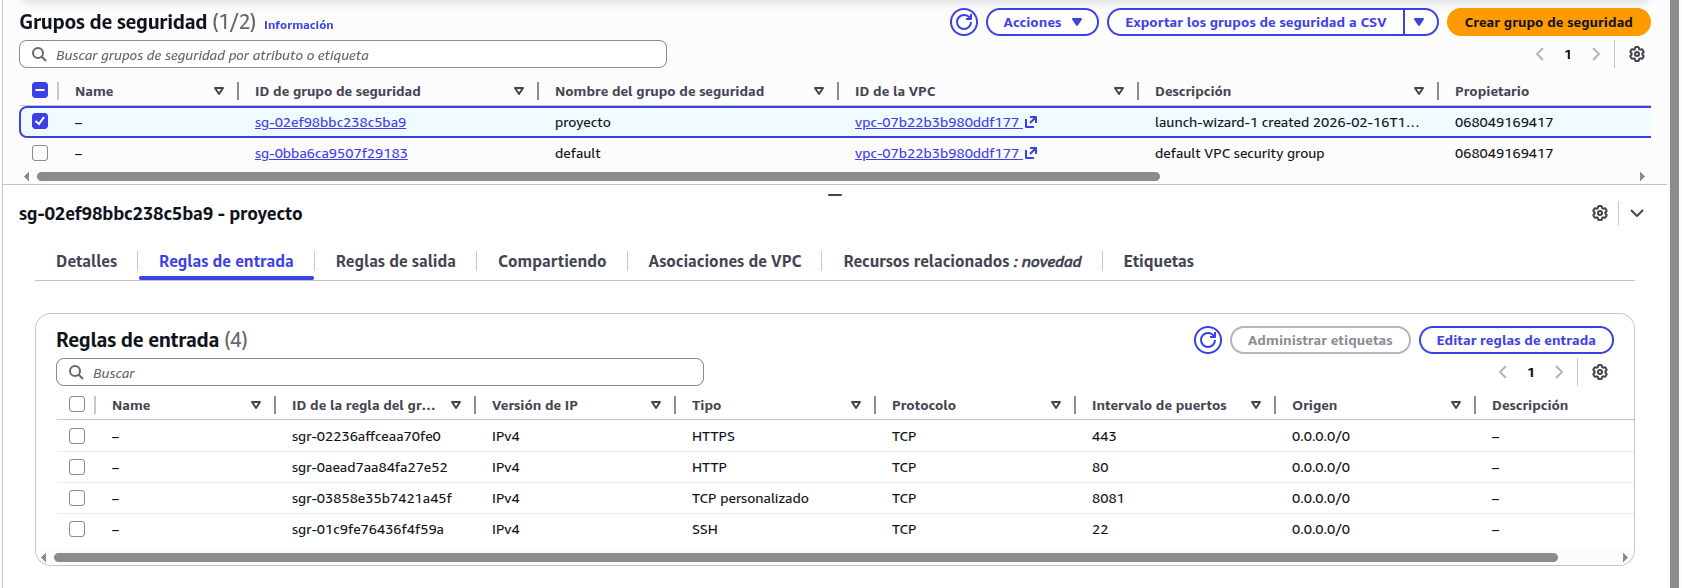
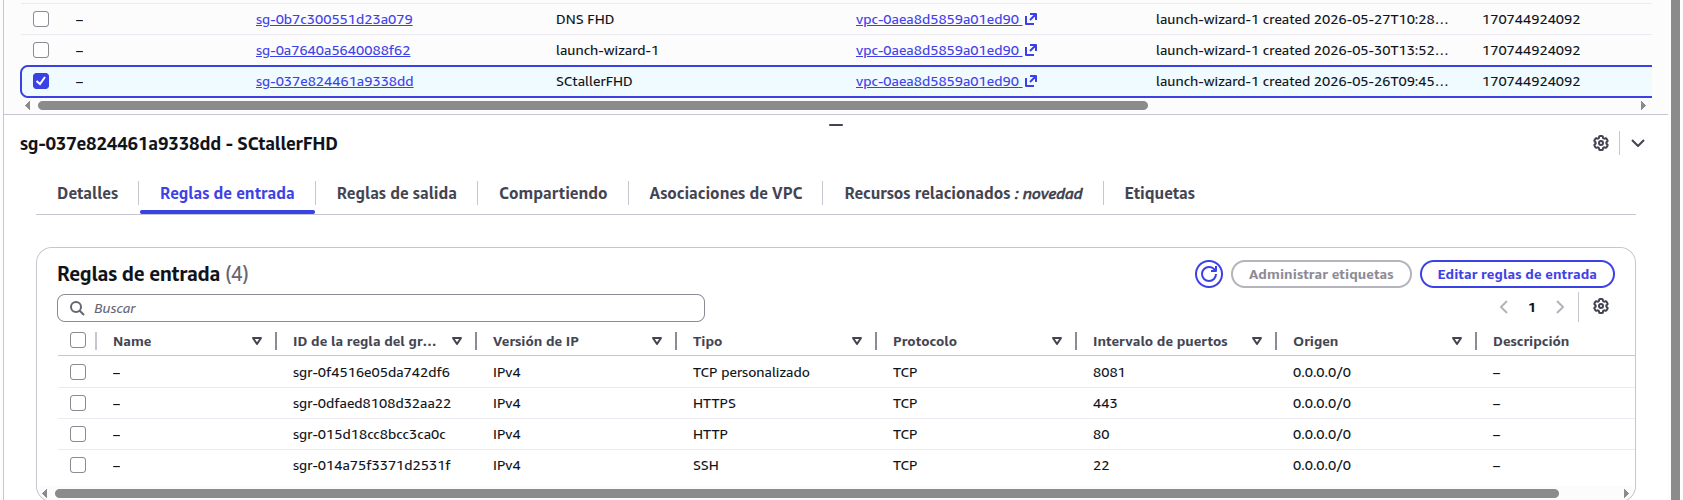
Actualizacion resultados

diff --git a/docs/04_Desarrollo.md b/docs/04_Desarrollo.md
@@ -6,43 +6,71 @@ En esta fase se ha llevado a cabo el despliegue completo de la infraestructura n
 
 ## 1. Infraestructura en AWS
 
-Se ha desplegado una instancia **EC2** en la región `us-east-1` con **Ubuntu Server 22.04 LTS**, asociada a una **Elastic IP** para disponer de dirección pública fija.
+Se han desplegado **tres instancias EC2** en la región `us-east-1` con **Ubuntu Server 24.04 LTS**, cada una con una **Elastic IP** fija asociada.
+
+| Instancia | IP | Tipo | Función |
+|-----------|-----|------|---------|
+| taller-fhd-principal | 3.217.215.112 | t3.medium | Servidor web, panel admin y base de datos |
+| taller-fhd-dns | 18.213.221.53 | t3.micro | Servidor DNS con BIND9 |
+| taller-fhd-backups | 54.165.242.48 | t3.micro | Servidor de copias de seguridad |
+
 
 ### Security Groups
 
-Se configuró un *Security Group* específico con las siguientes reglas de entrada:
+Cada instancia dispone de su propio Security Group con únicamente los puertos necesarios:
 
-| Puerto | Protocolo | Origen    | Uso                                      |
-|--------|-----------|-----------|------------------------------------------|
-| 22     | TCP       | IP propia | Administración remota por SSH            |
-| 80     | TCP       | 0.0.0.0/0 | Web pública WordPress                    |
-| 8081   | TCP       | 0.0.0.0/0 | Panel de administración Laravel/Filament |
+**Servidor principal:**
 
-El puerto **3306 (MySQL) no está expuesto** en ningún momento, garantizando que la base de datos solo sea accesible desde la red interna de Docker.
+| Puerto | Protocolo | Origen    | Uso                           |
+|--------|-----------|-----------|-------------------------------|
+| 22     | TCP       | IP propia | Administración remota por SSH |
+| 80     | TCP       | 0.0.0.0/0 | Redirección HTTP → HTTPS      |
+| 443    | TCP       | 0.0.0.0/0 | Web pública WordPress (HTTPS) |
+| 8081   | TCP       | 0.0.0.0/0 | Panel admin Laravel (HTTPS)   |
 
-![Reglas del Security Group en AWS](images/securitygroups.png)
+El puerto **3306 (MySQL) no está expuesto** en ningún momento.
+
+
+**Servidor DNS:**
+
+| Puerto | Protocolo | Origen    | Uso           |
+|--------|-----------|-----------|---------------|
+| 22     | TCP       | IP propia | SSH           |
+| 53     | UDP       | 0.0.0.0/0 | Consultas DNS |
+| 53     | TCP       | 0.0.0.0/0 | Consultas DNS |
+
+
+**Servidor de backups:**
+
+| Puerto | Protocolo | Origen           | Uso                            |
+|--------|-----------|------------------|--------------------------------|
+| 22     | TCP       | IP propia        | SSH administrador              |
+| 22     | TCP       | 3.217.215.112/32 | Recepción de backups por rsync |
+
 
 ---
 
 ## 2. Estructura del proyecto
 
-Todos los archivos de configuración se organizan bajo `/opt/taller`:
+Todos los archivos de configuración se organizan bajo `/opt/taller` en el servidor principal:
 
 ```
 /opt/taller/
 ├── docker-compose.yml          # Orquestador principal
 ├── .env                        # Credenciales y variables (nunca en Git)
+├── backup.sh                   # Script de backup automático nocturno
 ├── nginx/
-│   └── conf.d/
-│       └── default.conf        # Configuración del reverse proxy
+│   ├── conf.d/
+│   │   └── default.conf        # Configuración del reverse proxy y HTTPS
+│   └── certs/
+│       ├── certpub.pem         # Certificado SSL público (Cloudflare)
+│       └── certpriv.key        # Clave privada SSL (Cloudflare)
 ├── mysql/
 │   └── init/
-│       └── 01_init.sql         # Inicialización de BBD y tablas
+│       └── 01_init.sql         # Inicialización de BBD, usuarios y tablas
 └── laravel/
     └── Dockerfile              # Imagen personalizada PHP 8.2
 ```
-
-Los datos de las aplicaciones se almacenan en **volúmenes Docker gestionados**, fuera del directorio del proyecto, garantizando su persistencia ante reinicios.
 
 ---
 
@@ -57,10 +85,12 @@ services:
     image: nginx:alpine
     ports:
       - "80:80"
+      - "443:443"
       - "8081:8081"
     volumes:
       - ./nginx/conf.d:/etc/nginx/conf.d:ro
-      - wordpress_files:/var/www/html/wordpress:ro
+      - ./nginx/certs:/etc/nginx/certs:ro
+      - wordpress_files:/var/www/html:ro
       - laravel_app:/var/www/panel:ro
 
   wordpress:
@@ -115,15 +145,22 @@ Todas las credenciales se cargan desde el fichero `.env`, que nunca se sube al r
 
 ---
 
-## 4. Nginx como Reverse Proxy
+## 4. Nginx como Reverse Proxy con HTTPS
 
-Nginx actúa como único punto de entrada desde el exterior y enruta el tráfico según el puerto de la petición: el puerto **80** hacia WordPress y el puerto **8081** hacia el panel de administración Laravel/Filament. Ningún otro contenedor tiene puertos expuestos directamente al exterior.
+Nginx actúa como único punto de entrada desde el exterior. Enruta el tráfico según el **dominio** de la petición y fuerza HTTPS en todos los accesos mediante redirección 301:
+
+- `fhdproyects.innc.link` → WordPress (web pública)
+- `tallerfhd.gestiona` → Laravel + Filament (panel admin, solo DNS privado)
+
+Los certificados SSL son **Cloudflare Origin Certificates** para `*.innc.link`, almacenados en `/opt/taller/nginx/certs/`.
 
 ---
 
 ## 5. Imagen personalizada de Laravel
 
-Dado que Laravel y Filament requieren extensiones PHP adicionales, se creó una imagen personalizada a partir de `php:8.2-fpm-alpine` que incluye todas las dependencias necesarias, entre ellas `pdo_mysql`, `intl`, `gd` y `zip`, además de **Composer** para la gestión de paquetes.
+Dado que Laravel 12 y Filament v3 requieren extensiones PHP adicionales, se creó una imagen personalizada a partir de `php:8.2-fpm-alpine` que incluye todas las dependencias necesarias, entre ellas `pdo_mysql`, `intl`, `gd` y `zip`, además de **Composer** para la gestión de paquetes.
+
+La extensión `intl` requiere la dependencia del sistema `icu-dev`, que debe instalarse explícitamente antes de compilarla.
 
 ---
 
@@ -132,43 +169,94 @@ Dado que Laravel y Filament requieren extensiones PHP adicionales, se creó una 
 MySQL gestiona **dos bases de datos separadas** dentro del mismo contenedor:
 
 - `wordpress` — datos del CMS, accedida por el usuario `wp_user`.
-- `taller_motos` — datos del negocio (clientes, motos, reparaciones, mecánicos), accedida por el usuario `laravel_user`.
+- `taller_motos` — datos del negocio, accedida por el usuario `laravel_user`.
 
-Cada usuario tiene **privilegios mínimos** sobre su propia base de datos únicamente. El script de inicialización crea automáticamente las tablas y carga datos de ejemplo al primer arranque.
+La base de datos `taller_motos` contiene **cinco tablas** diseñadas completamente en español:
+
+| Tabla | Descripción |
+|-------|-------------|
+| `clientes` | Nombre, apellidos, teléfono y email |
+| `motos` | Matrícula, marca, modelo y cliente propietario |
+| `reparaciones` | Motivo, solución, estado, fechas, km y precio |
+| `mecanicos` | Nombre, apellidos, teléfono y estado activo |
+| `lista_compra` | Material, cantidad, urgente y comprado |
+
+Las relaciones entre tablas son: un cliente puede tener varias motos, y una moto puede tener varias reparaciones. Cada reparación tiene un mecánico asignado.
 
 ---
 
-## 7. Panel de administración Laravel + Filament
+## 7. Panel de administración Laravel 12 + Filament v3
 
-Tras el despliegue de los contenedores se instaló **Laravel 11** y **Filament v3** dentro del contenedor, generando los módulos de gestión del taller:
+Tras el despliegue de los contenedores se instaló **Laravel 12** y **Filament v3** dentro del contenedor, generando cinco módulos de gestión del taller:
 
 - **Clientes** — registro y búsqueda de clientes.
 - **Motos** — vehículos vinculados a cada cliente.
-- **Reparaciones** — historial de trabajos con estado, fechas y costes.
-- **Mecánicos** — personal del taller.
+- **Reparaciones** — historial de trabajos con estado, fechas y precios.
+- **Mecánicos** — personal del taller con estado activo/inactivo.
+- **Lista de compra** — materiales pendientes de adquirir, con prioridad urgente.
 
-El panel es accesible en `http://IP:8081/admin` con autenticación propia.
+El panel es accesible en `https://tallerfhd.gestiona/admin` **únicamente desde equipos que tengan configurado el DNS privado**.
 
 ---
 
-## 8. Verificación del sistema
+## 8. Servidor DNS con BIND9
+
+Se desplegó una segunda instancia EC2 (`18.213.221.53`) con **BIND9** para proporcionar resolución de nombres propia e independiente de Cloudflare.
+
+Se configuraron tres zonas DNS:
+
+- `fhdproyects.innc.link` → `3.217.215.112`
+- `fhdproyects-gestiona.innc.link` → `3.217.215.112`
+- `tallerfhd.gestiona` → `3.217.215.112` (dominio inventado, solo existe en este DNS)
+
+El portátil del administrador se configuró en `/etc/systemd/resolved.conf` para usar `18.213.221.53` como DNS primario, con `1.1.1.1` como fallback. Esto permite:
+
+- Acceder a `tallerfhd.gestiona` desde el portátil aunque Cloudflare esté bloqueado.
+- Demostrar resolución DNS propia en el entorno del centro educativo.
+- Mantener la accesibilidad pública del dominio WordPress desde cualquier dispositivo.
+
+---
+
+## 9. Sistema de copias de seguridad automáticas
+
+Se desplegó una tercera instancia EC2 (`54.165.242.48`) dedicada exclusivamente a recibir copias de seguridad.
+
+Se configuró una **conexión SSH sin contraseña** entre el servidor principal y el servidor de backups mediante una clave RSA dedicada generada en el servidor principal.
+
+El script `/opt/taller/backup.sh` realiza automáticamente cada noche a las **2:00 AM** (programado con `cron`):
+
+1. Volcado de la base de datos `wordpress` con `mysqldump`
+2. Volcado de la base de datos `taller_motos` con `mysqldump`
+3. Compresión de los archivos WordPress con `tar`
+4. Compresión de la configuración `/opt/taller` con `tar`
+5. Envío de todos los archivos al servidor de backups mediante `rsync` sobre SSH
+6. Limpieza de archivos temporales locales
+
+Cada backup incluye **fecha y hora** en el nombre del archivo. Los resultados quedan registrados en `/var/log/backup.log`.
+
+---
+
+## 10. Verificación del sistema
 
 Una vez completado el despliegue se verificó el correcto funcionamiento de todos los servicios:
 
 | URL | Resultado |
 |-----|-----------|
-| `http://IP/` | Web pública WordPress ✅ |
-| `http://IP/wp-admin` | Panel WordPress ✅ |
-| `http://IP:8081/admin` | Login Filament ✅ |
-| `http://IP:8081/admin/clientes` | Listado de clientes ✅ |
-| `http://IP:8081/admin/motos` | Listado de motos ✅ |
-| `http://IP:8081/admin/reparaciones` | Listado de reparaciones ✅ |
-| `http://IP:8081/admin/mecanicos` | Listado de mecánicos ✅ |
+| `https://fhdproyects.innc.link` | Web pública WordPress ✅ |
+| `https://fhdproyects.innc.link/wp-admin` | Panel WordPress ✅ |
+| `https://tallerfhd.gestiona/admin` | Login Filament ✅ |
+| `https://tallerfhd.gestiona/admin/clientes` | Listado de clientes ✅ |
+| `https://tallerfhd.gestiona/admin/motos` | Listado de motos ✅ |
+| `https://tallerfhd.gestiona/admin/reparaciones` | Listado de reparaciones ✅ |
+| `https://tallerfhd.gestiona/admin/mecanicos` | Listado de mecánicos ✅ |
+| `https://tallerfhd.gestiona/admin/lista-compras` | Lista de compra ✅ |
+| `dig @18.213.221.53 tallerfhd.gestiona` | Resuelve 3.217.215.112 ✅ |
+| Backup nocturno en servidor independiente | Ejecutado correctamente ✅ |
 
 Se comprobó también que los datos persisten tras reiniciar los contenedores y que MySQL **no es accesible desde el exterior** gracias al Security Group y a la red interna de Docker.
 
 ---
 
-## 9. Conclusiones de la fase de desarrollo
+## 11. Conclusiones de la fase de desarrollo
 
-El uso combinado de **AWS EC2**, **Elastic IP**, **Security Groups** y **Docker Compose** ha permitido desplegar una infraestructura modular, segura y reproducible en la que cada servicio corre de forma aislada y puede ser mantenido o actualizado de forma independiente. El proyecto está preparado para una migración a producción real añadiendo únicamente un dominio propio y certificados SSL con Let's Encrypt.
+El uso combinado de **AWS EC2**, **Elastic IP**, **Security Groups**, **Docker Compose**, **BIND9** y un sistema de backups automáticos ha permitido desplegar una infraestructura modular, segura y reproducible en la que cada servicio corre de forma aislada y puede ser mantenido o actualizado de forma independiente. La separación en tres instancias garantiza que un fallo en un servidor no afecte al resto del sistema.

diff --git a/docs/05_Resultados.md b/docs/05_Resultados.md
@@ -1,2 +1,110 @@
 # Resultados
-Próximamente...
+
+En esta sección se recogen los resultados obtenidos tras el despliegue completo de la infraestructura, verificando el cumplimiento de los objetivos definidos en la fase de planificación.
+
+---
+
+## 1. Resultado general
+
+Se ha desplegado con éxito una infraestructura completa en la nube compuesta por **tres instancias EC2** independientes que dan servicio a una web pública, un panel de administración privado y un sistema de copias de seguridad automáticas. Todos los servicios funcionan con **HTTPS** y dominio propio, y el sistema de resolución DNS privado permite el acceso incluso en entornos con Cloudflare bloqueado.
+
+---
+
+## 2. Comparativa objetivos vs resultados
+
+| Objetivo | Resultado | Estado |
+|----------|-----------|--------|
+| Desplegar web pública con WordPress | `https://fhdproyects.innc.link` operativo | ✅ |
+| Panel de administración privado con Laravel/Filament | `https://tallerfhd.gestiona/admin` operativo | ✅ |
+| Comunicaciones seguras con HTTPS | Certificados Cloudflare activos en todos los dominios | ✅ |
+| Servidor DNS propio con BIND9 | Resuelve `tallerfhd.gestiona` y `fhdproyects.innc.link` | ✅ |
+| Copias de seguridad automáticas nocturnas | Script cron ejecutándose cada noche a las 2:00 AM | ✅ |
+| Base de datos del taller en español | 5 tablas relacionales: clientes, motos, reparaciones, mecánicos, lista de compra | ✅ |
+| Aislamiento de MySQL | Puerto 3306 no expuesto, solo accesible desde red interna Docker | ✅ |
+| Persistencia de datos ante reinicios | Volúmenes Docker funcionando correctamente | ✅ |
+
+---
+
+## 3. Infraestructura desplegada
+
+### 3.1 Servidor principal
+
+Cuatro contenedores Docker operativos en red interna `taller_network`:
+
+| Contenedor | Imagen | Estado |
+|------------|--------|--------|
+| taller_nginx | nginx:alpine | ✅ Running |
+| taller_wordpress | wordpress:fpm-alpine | ✅ Running |
+| taller_laravel | php:8.2-fpm-alpine (custom) | ✅ Running |
+| taller_db | mysql:8.0 | ✅ Healthy |
+
+
+![Estado de los contenedores Docker](images/dockerpsa.png)
+
+---
+
+### 3.2 Web pública WordPress
+
+La página web del taller **FHD Proyects** es accesible públicamente en `https://fhdproyects.innc.link` con certificado SSL válido.
+
+![Web pública WordPress](images/wordpress_web.png)
+
+---
+
+### 3.3 Panel de administración Laravel + Filament
+
+El panel privado de gestión del taller es accesible en `https://tallerfhd.gestiona/admin` únicamente desde equipos con el DNS privado configurado.
+
+![Módulo de reparaciones](images/filament_reparaciones.png)
+
+---
+
+### 3.4 Base de datos
+
+La base de datos `taller_motos` contiene las 5 tablas diseñadas con sus relaciones correctamente establecidas.
+
+![Tablas de la base de datos taller_motos](images/mysql_tables.png)
+
+---
+
+### 3.5 Servidor DNS con BIND9
+
+El servidor DNS privado resuelve correctamente los dominios del taller, incluyendo el dominio inventado `tallerfhd.gestiona` que no existe en Cloudflare.
+
+![Resolución DNS con BIND9](images/dns_dig.png)
+
+---
+
+### 3.6 Sistema de copias de seguridad
+
+El sistema de backups automáticos funciona correctamente, enviando las copias de seguridad al servidor independiente cada noche.
+
+![Archivos de backup en el servidor independiente](images/backups_ls.png)
+
+---
+
+## 4. Métricas del sistema
+
+| Métrica | Valor |
+|---------|-------|
+| Instancias EC2 desplegadas | 3 |
+| Contenedores Docker activos | 4 |
+| Volúmenes Docker persistentes | 3 |
+| Bases de datos | 2 (wordpress + taller_motos) |
+| Tablas en taller_motos | 5 |
+| Zonas DNS configuradas | 3 |
+| Puertos expuestos al exterior | 4 (22, 80, 443, 8081) |
+| Backups automáticos | Diarios a las 2:00 AM |
+| Protocolo de comunicación web | HTTPS (TLS 1.2/1.3) |
+
+---
+
+## 5. Accesos finales del sistema
+
+| Servicio | URL | Acceso |
+|----------|-----|--------|
+| Web pública WordPress | `https://fhdproyects.innc.link` | Público |
+| Panel WordPress | `https://fhdproyects.innc.link/wp-admin` | Administrador |
+| Panel Laravel/Filament | `https://tallerfhd.gestiona/admin` | Solo DNS privado |
+| Servidor DNS | `18.213.221.53:53` | Consultas DNS |
+| Servidor backups | `54.165.242.48` | Solo SSH interno |